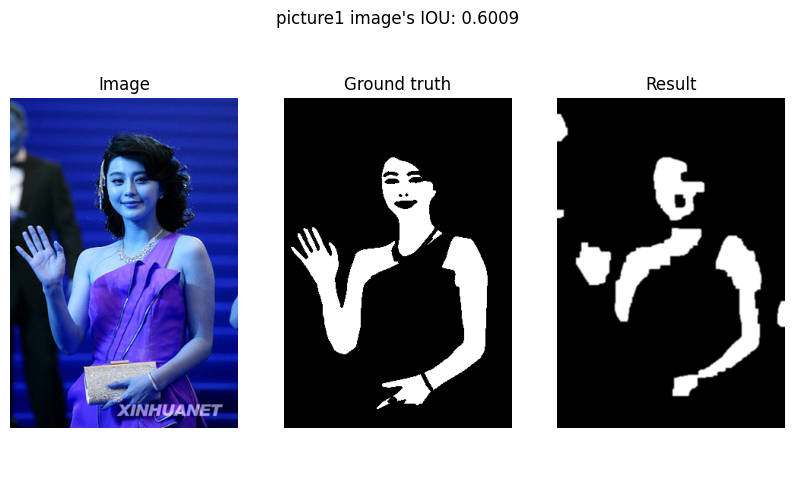
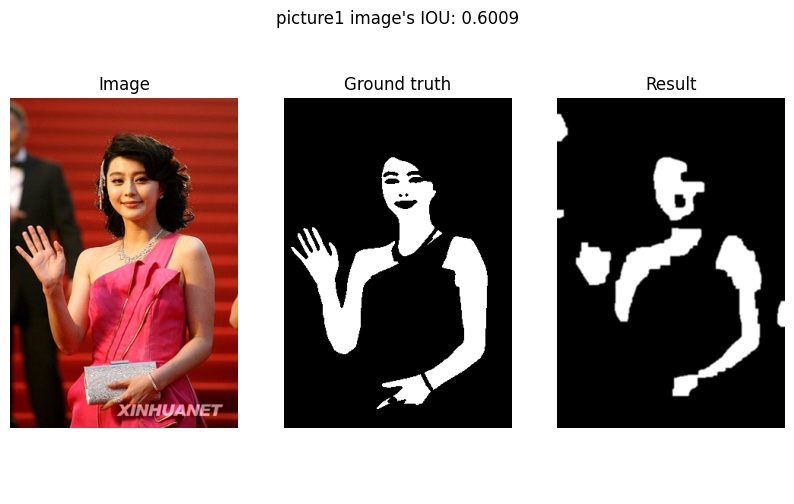
05/19 Improve result compare vision

Changed region(s): [[0.0, 0.1786, 0.3023, 0.8631], [0.0, 0.3869, 0.0302, 0.4464]]

diff --git a/main.py b/main.py
@@ -12,7 +12,7 @@ def createWindow(image = None, title = None):
     plt.figure(figsize=(10, 6))
     
     if image is not None:
-        plt.imshow(image, cmap='gray')
+        plt.imshow(image)
         
     if title is not None:
         plt.title(title)
@@ -33,15 +33,16 @@ def main():
         image_path = f"./Photo/pic{i}.jpg"
         ground_truth_path = f"./GroundTruth/pic{i}.png"
         origin_result_path = f"./Result/pic{i}.jpg"
-        
+                
         skin_masked, iou = skin_detect(image_path, ground_truth_path)
 
         print(f"picture{i} image\'s IOU: {iou}")
 
+        photo = cv2.cvtColor(cv2.imread(image_path), cv2.COLOR_BGR2RGB)
         
         createWindow(title=f"picture{i} image\'s IOU: {iou.round(4)}")
         
-        plt.subplot(1, 3, 1), plt.title("Image"), plt.imshow(cv2.imread(image_path)), plt.axis("off"), plt.xticks([]), plt.yticks([])
+        plt.subplot(1, 3, 1), plt.title("Image"), plt.imshow(photo), plt.axis("off"), plt.xticks([]), plt.yticks([])
         plt.subplot(1, 3, 2), plt.title("Ground truth"), plt.imshow(cv2.imread(ground_truth_path, cv2.IMREAD_GRAYSCALE), cmap="gray"), plt.axis("off"), plt.xticks([]), plt.yticks([])
         plt.subplot(1, 3, 3), plt.title("Result"), plt.imshow(skin_masked, cmap="gray"), plt.axis("off"), plt.xticks([]), plt.yticks([])
         
